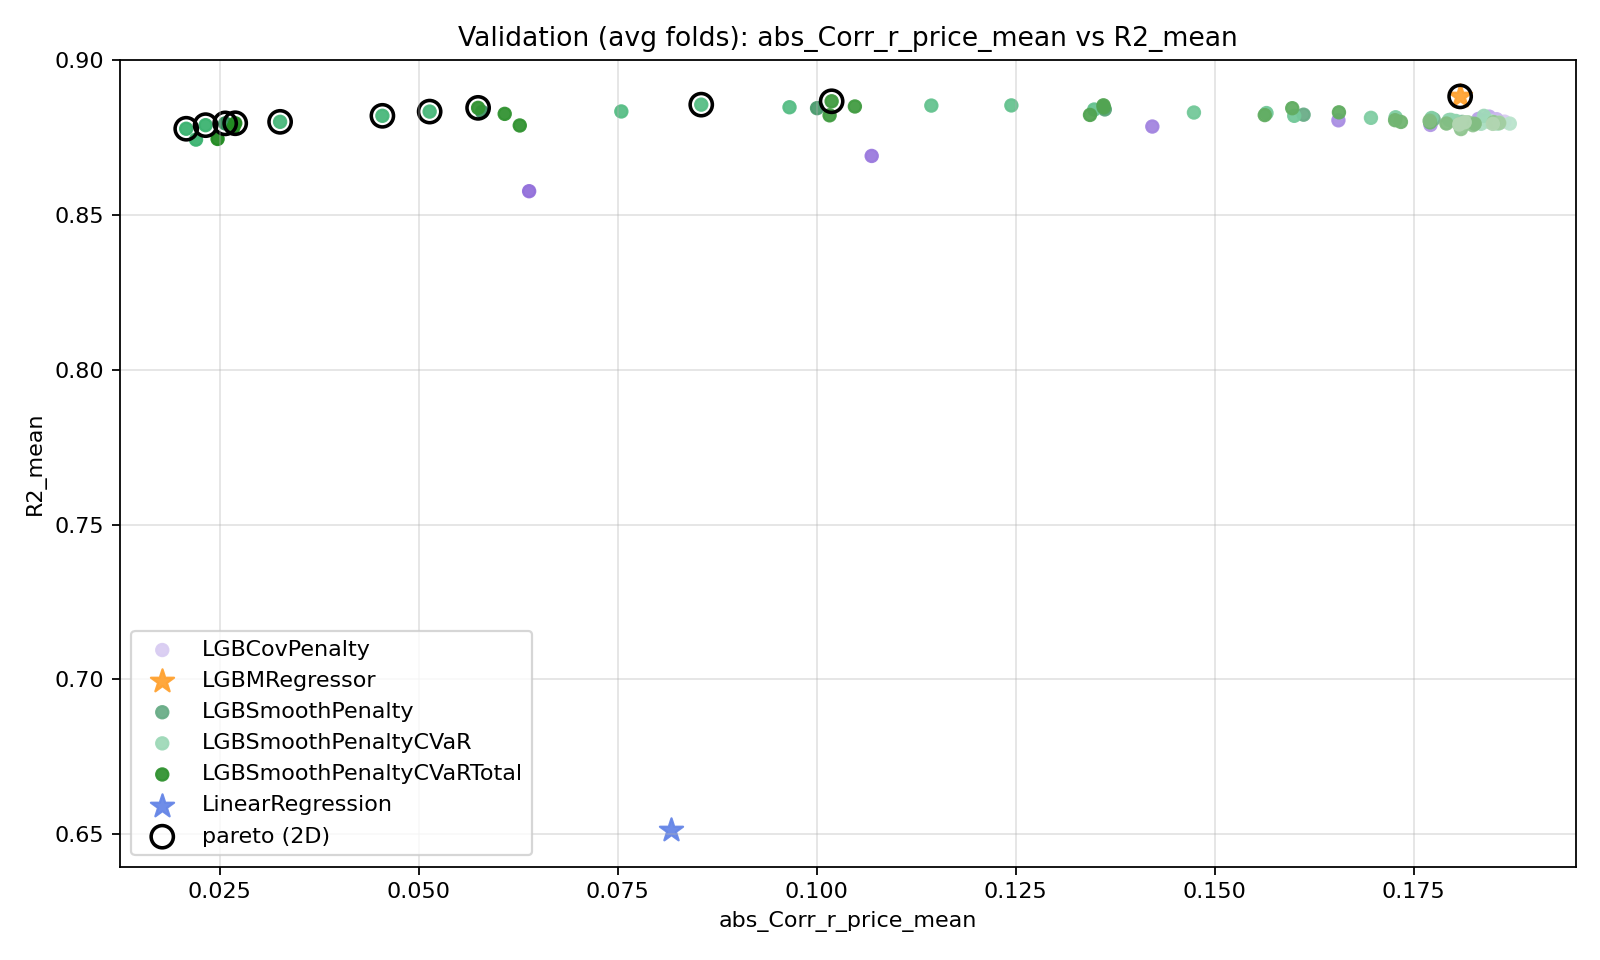
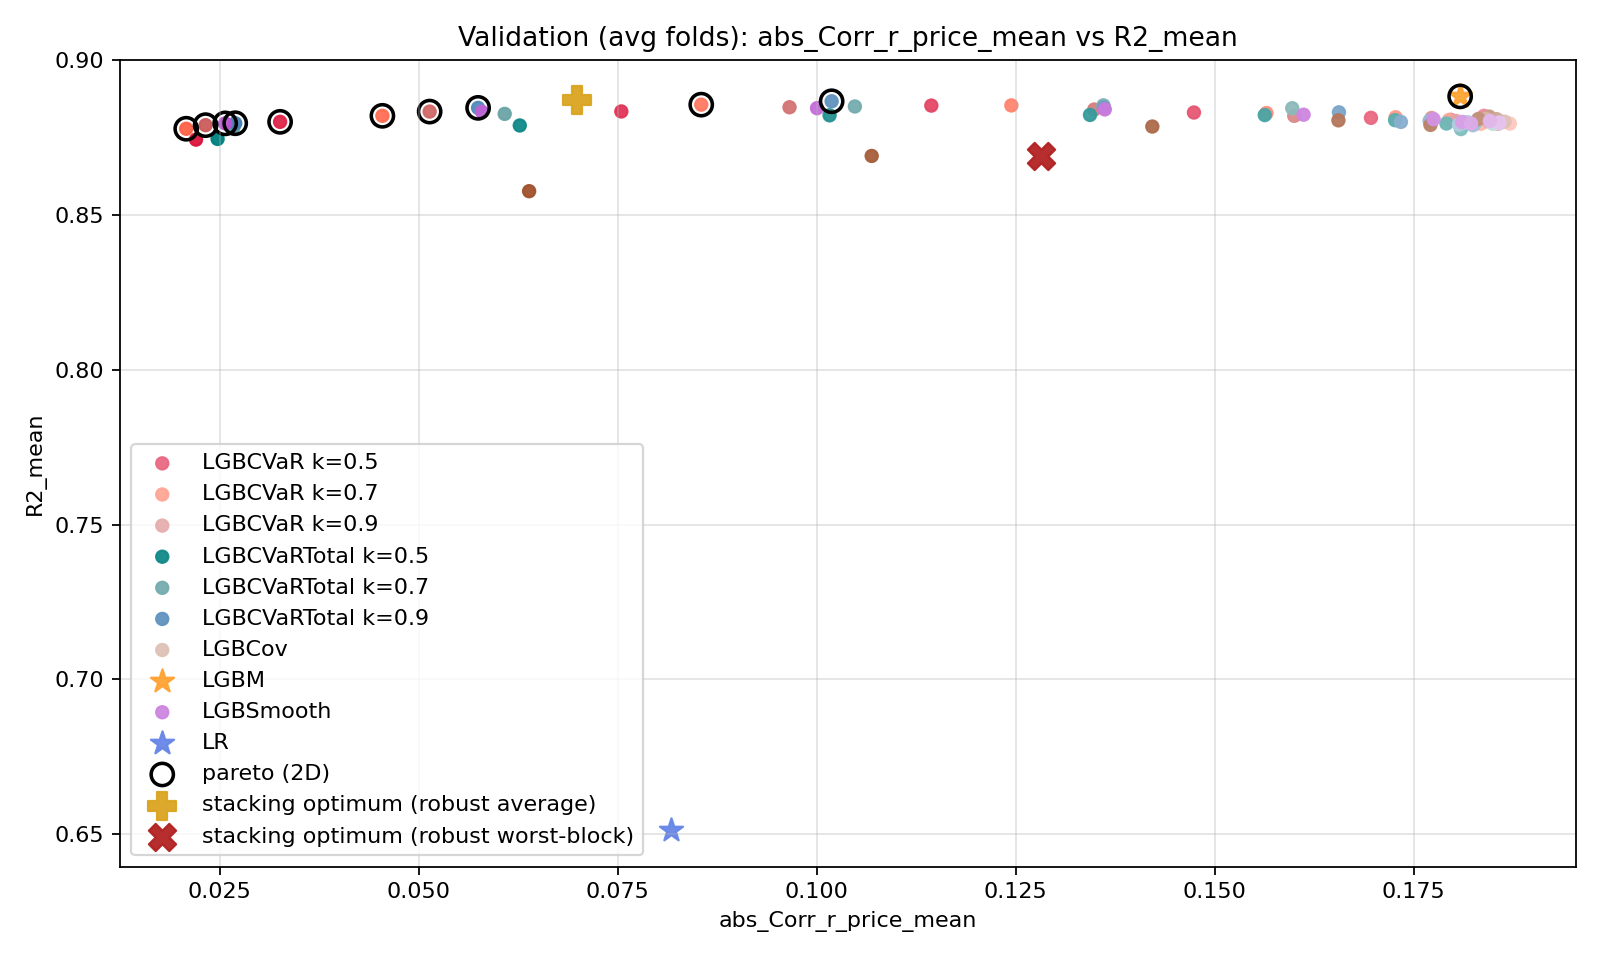
[Update] Cleaner stacking optimization

diff --git a/optimize_stacking_weights.py b/optimize_stacking_weights.py
@@ -220,6 +220,8 @@ def _solve_prd_socp_for_mode(
     cvar_alpha: float,
     prd_constraint_aggregation: str,
     prd_constraint_cvar_alpha: float,
+    prd_feasibility_mode: str,
+    prd_gap_penalty: float,
     use_bootstrap_scenarios: bool,
     n_bootstrap_scenarios: int,
     bootstrap_seed: int,
@@ -243,6 +245,12 @@ def _solve_prd_socp_for_mode(
     prd_constraint_aggregation = str(prd_constraint_aggregation)
     if prd_constraint_aggregation not in {"worst", "average", "cvar"}:
         raise ValueError("prd_constraint_aggregation must be one of: worst, average, cvar")
+    prd_feasibility_mode = str(prd_feasibility_mode)
+    if prd_feasibility_mode not in {"priced_gap", "hard"}:
+        raise ValueError("prd_feasibility_mode must be one of: priced_gap, hard")
+    prd_gap_penalty = float(prd_gap_penalty)
+    if prd_feasibility_mode == "priced_gap" and prd_gap_penalty < 0.0:
+        raise ValueError("prd_gap_penalty must be >= 0.")
     prd_cvar_alpha = float(prd_constraint_cvar_alpha)
     if prd_constraint_aggregation == "cvar" and not (0.0 < prd_cvar_alpha < 1.0):
         raise ValueError("prd_constraint_cvar_alpha must be in (0, 1) when prd_constraint_aggregation=cvar")
@@ -270,7 +278,9 @@ def _solve_prd_socp_for_mode(
         prd_high_affine_terms.append(high_aff)
         denom_constraints += [(b @ w) >= 1e-9]
 
-        loss_f = cp.sum_squares(Pn @ w - y_norm) / float(y_norm.shape[0])
+        # Scale-stable objective: mean squared ratio residual, ((yhat / y) - 1)^2.
+        # With y treated as fixed positive data, this remains a convex quadratic in w.
+        loss_f = cp.sum_squares(cp.multiply(1.0 / y_norm, Pn @ w) - 1.0) / float(y_norm.shape[0])
         scenario_losses.append(loss_f)
 
         if use_bootstrap_scenarios and int(n_bootstrap_scenarios) > 0:
@@ -288,39 +298,62 @@ def _solve_prd_socp_for_mode(
                 prd_low_affine_terms.append(low_aff_b)
                 prd_high_affine_terms.append(high_aff_b)
                 denom_constraints += [(bb @ w) >= 1e-9]
-                scenario_losses.append(cp.sum_squares(Pb @ w - yb_pos) / float(yb_pos.shape[0]))
+                scenario_losses.append(
+                    cp.sum_squares(cp.multiply(1.0 / yb_pos, Pb @ w) - 1.0) / float(yb_pos.shape[0])
+                )
+
+    gap_var = cp.Variable(nonneg=True) if prd_feasibility_mode == "priced_gap" else None
 
     if prd_constraint_aggregation == "worst":
         for low_aff, high_aff in zip(prd_low_affine_terms, prd_high_affine_terms):
-            prd_constraints.append(low_aff <= 0.0)
-            prd_constraints.append(high_aff <= 0.0)
+            if gap_var is None:
+                prd_constraints.append(low_aff <= 0.0)
+                prd_constraints.append(high_aff <= 0.0)
+            else:
+                prd_constraints.append(low_aff <= gap_var)
+                prd_constraints.append(high_aff <= gap_var)
     elif prd_constraint_aggregation == "average":
-        prd_constraints.append(cp.sum(cp.hstack(prd_low_affine_terms)) / float(len(prd_low_affine_terms)) <= 0.0)
-        prd_constraints.append(cp.sum(cp.hstack(prd_high_affine_terms)) / float(len(prd_high_affine_terms)) <= 0.0)
+        if gap_var is None:
+            prd_constraints.append(cp.sum(cp.hstack(prd_low_affine_terms)) / float(len(prd_low_affine_terms)) <= 0.0)
+            prd_constraints.append(cp.sum(cp.hstack(prd_high_affine_terms)) / float(len(prd_high_affine_terms)) <= 0.0)
+        else:
+            prd_constraints.append(cp.sum(cp.hstack(prd_low_affine_terms)) / float(len(prd_low_affine_terms)) <= gap_var)
+            prd_constraints.append(cp.sum(cp.hstack(prd_high_affine_terms)) / float(len(prd_high_affine_terms)) <= gap_var)
     else:  # cvar
         eta_low = cp.Variable()
         u_low = cp.Variable(len(prd_low_affine_terms), nonneg=True)
         for i, low_aff in enumerate(prd_low_affine_terms):
             prd_constraints.append(u_low[i] >= low_aff - eta_low)
-        prd_constraints.append(
-            eta_low + (1.0 / ((1.0 - prd_cvar_alpha) * float(len(prd_low_affine_terms)))) * cp.sum(u_low) <= 0.0
-        )
+        if gap_var is None:
+            prd_constraints.append(
+                eta_low + (1.0 / ((1.0 - prd_cvar_alpha) * float(len(prd_low_affine_terms)))) * cp.sum(u_low) <= 0.0
+            )
+        else:
+            prd_constraints.append(
+                eta_low + (1.0 / ((1.0 - prd_cvar_alpha) * float(len(prd_low_affine_terms)))) * cp.sum(u_low) <= gap_var
+            )
 
         eta_high = cp.Variable()
         u_high = cp.Variable(len(prd_high_affine_terms), nonneg=True)
         for i, high_aff in enumerate(prd_high_affine_terms):
             prd_constraints.append(u_high[i] >= high_aff - eta_high)
-        prd_constraints.append(
-            eta_high + (1.0 / ((1.0 - prd_cvar_alpha) * float(len(prd_high_affine_terms)))) * cp.sum(u_high) <= 0.0
-        )
+        if gap_var is None:
+            prd_constraints.append(
+                eta_high + (1.0 / ((1.0 - prd_cvar_alpha) * float(len(prd_high_affine_terms)))) * cp.sum(u_high) <= 0.0
+            )
+        else:
+            prd_constraints.append(
+                eta_high + (1.0 / ((1.0 - prd_cvar_alpha) * float(len(prd_high_affine_terms)))) * cp.sum(u_high) <= gap_var
+            )
 
+    objective_expr = None
     if mode == "average":
-        objective = cp.Minimize(cp.sum(cp.hstack(scenario_losses)) / float(len(scenario_losses)))
+        objective_expr = cp.sum(cp.hstack(scenario_losses)) / float(len(scenario_losses))
     elif mode == "worst":
         t = cp.Variable()
         for lf in scenario_losses:
             objective_link_constraints.append(lf <= t)
-        objective = cp.Minimize(t)
+        objective_expr = t
     elif mode == "time_decay":
         gamma = float(time_decay_gamma)
         if not (0.0 < gamma <= 1.0):
@@ -337,7 +370,7 @@ def _solve_prd_socp_for_mode(
             for _ in range(rep):
                 weighted_terms.append(float(fold_weights[i]) * scenario_losses[idx] / float(rep))
                 idx += 1
-        objective = cp.Minimize(cp.sum(cp.hstack(weighted_terms)))
+        objective_expr = cp.sum(cp.hstack(weighted_terms))
     else:  # cvar
         alpha = float(cvar_alpha)
         if not (0.0 < alpha < 1.0):
@@ -346,7 +379,11 @@ def _solve_prd_socp_for_mode(
         u = cp.Variable(len(scenario_losses), nonneg=True)
         for i, lf in enumerate(scenario_losses):
             objective_link_constraints.append(u[i] >= lf - eta)
-        objective = cp.Minimize(eta + (1.0 / ((1.0 - alpha) * float(len(scenario_losses)))) * cp.sum(u))
+        objective_expr = eta + (1.0 / ((1.0 - alpha) * float(len(scenario_losses)))) * cp.sum(u)
+
+    if gap_var is not None:
+        objective_expr = objective_expr + float(prd_gap_penalty) * gap_var
+    objective = cp.Minimize(objective_expr)
 
     hard_constraints = simplex_constraints + denom_constraints + objective_link_constraints + prd_constraints
     prob = cp.Problem(objective, hard_constraints)
@@ -388,7 +425,7 @@ def _solve_prd_socp_for_mode(
         # Final fallback: drop PRD constraints and solve simplex-only objective.
         # Runtime evidence showed some splits are infeasible under hard PRD bounds.
         fallback_constraints = simplex_constraints + objective_link_constraints
-        fallback_prob = cp.Problem(cp.Minimize(objective.args[0]), fallback_constraints)
+        fallback_prob = cp.Problem(cp.Minimize(objective_expr), fallback_constraints)
         for candidate in solvers_to_try:
             print(f"[stacking][{mode}] trying solver={candidate} (unconstrained fallback)")
             try:
@@ -441,6 +478,9 @@ def _solve_prd_socp_for_mode(
         "solver": solver_name,
         "objective_mode": mode,
         "prd_constraint_mode": str(prd_constraint_mode),
+        "prd_feasibility_mode": str(prd_feasibility_mode),
+        "prd_gap_penalty": float(prd_gap_penalty),
+        "prd_gap_value": (float(gap_var.value) if (gap_var is not None and gap_var.value is not None) else 0.0),
         "prd_constraint_aggregation": str(prd_constraint_aggregation),
         "prd_constraint_cvar_alpha": float(prd_cvar_alpha),
         "objective_value": float(prob.value) if prob.value is not None else None,
@@ -459,7 +499,7 @@ def run_stacking_pf_optimization(
     objective_mode: str = "worst_fold",
     max_models: Optional[int] = 100,
     solver: Optional[str] = None,
-    solver_verbose: bool = False,
+    solver_verbose: bool = True,
 ) -> Dict[str, str]:
     """
     Solve:
@@ -584,7 +624,7 @@ def run_stacking_prd_socp_optimization(
     objective_mode: str = "average",
     max_models: Optional[int] = 100,
     solver: Optional[str] = None,
-    solver_verbose: bool = False,
+    solver_verbose: bool = True,
     prd_constraint_aggregation: str = "worst",
     prd_constraint_cvar_alpha: float = 0.8,
     use_bootstrap_scenarios: bool = False,
@@ -592,11 +632,14 @@ def run_stacking_prd_socp_optimization(
     bootstrap_seed: int = 2025,
     time_decay_gamma: float = 0.9,
     cvar_alpha: float = 0.8,
+    solve_all_modes: bool = False,
+    prd_feasibility_mode: str = "priced_gap",
+    prd_gap_penalty: float = 1000.0,
 ) -> Dict[str, str]:
     """
     PRD-constrained exact convex stacking using row-level fold predictions.
-    Always solves and stores both `average` and `worst` objectives, plus the
-    requested objective_mode if different.
+    By default, solves only the requested objective_mode.
+    Set solve_all_modes=True to also solve and store `average` and `worst`.
     """
     objective_mode = str(objective_mode)
     if objective_mode not in {"average", "worst", "time_decay", "cvar"}:
@@ -610,10 +653,13 @@ def run_stacking_prd_socp_optimization(
         max_models=max_models,
     )
 
-    modes_to_run: List[str] = []
-    for m in ["average", "worst", objective_mode]:
-        if m not in modes_to_run:
-            modes_to_run.append(m)
+    if bool(solve_all_modes):
+        modes_to_run: List[str] = []
+        for m in ["average", "worst", objective_mode]:
+            if m not in modes_to_run:
+                modes_to_run.append(m)
+    else:
+        modes_to_run = [objective_mode]
 
     out_dir = Path(result_root) / "analysis" / f"data_id={data_id}" / f"split_id={split_id}" / "stacking_prd_socp_opt"
     out_dir.mkdir(parents=True, exist_ok=True)
@@ -631,6 +677,8 @@ def run_stacking_prd_socp_optimization(
             cvar_alpha=cvar_alpha,
             prd_constraint_aggregation=prd_constraint_aggregation,
             prd_constraint_cvar_alpha=prd_constraint_cvar_alpha,
+            prd_feasibility_mode=prd_feasibility_mode,
+            prd_gap_penalty=prd_gap_penalty,
             use_bootstrap_scenarios=bool(use_bootstrap_scenarios),
             n_bootstrap_scenarios=int(n_bootstrap_scenarios),
             bootstrap_seed=int(bootstrap_seed),
@@ -700,6 +748,9 @@ def run_stacking_prd_socp_optimization(
                 "cvar_alpha": float(cvar_alpha),
                 "prd_constraint_aggregation": str(prd_constraint_aggregation),
                 "prd_constraint_cvar_alpha": float(prd_constraint_cvar_alpha),
+                "solve_all_modes": bool(solve_all_modes),
+                "prd_feasibility_mode": str(prd_feasibility_mode),
+                "prd_gap_penalty": float(prd_gap_penalty),
                 "modes": all_summaries,
             },
             indent=2,
@@ -723,6 +774,21 @@ def _build_arg_parser() -> argparse.ArgumentParser:
     p.add_argument("--split-id", type=str, required=True)
     p.add_argument("--stacking-method", type=str, default="prd_socp", choices=["prd_socp", "legacy_linear"])
     p.add_argument("--objective-mode", type=str, default="average", choices=["average", "worst", "time_decay", "cvar"])
+    p.add_argument(
+        "--only-requested-objective",
+        dest="only_requested_objective",
+        action="store_true",
+        default=True,
+        help=(
+            "Run only --objective-mode for PRD-SOCP (default behavior)."
+        ),
+    )
+    p.add_argument(
+        "--all-objectives",
+        dest="only_requested_objective",
+        action="store_false",
+        help="Run average, worst, and requested objective for PRD-SOCP (legacy behavior).",
+    )
     p.add_argument("--use-bootstrap-scenarios", action="store_true", help="Augment fold scenarios with row-bootstrap scenarios (PRD-SOCP method only).")
     p.add_argument("--n-bootstrap-scenarios", type=int, default=0)
     p.add_argument("--bootstrap-seed", type=int, default=2025)
@@ -741,11 +807,29 @@ def _build_arg_parser() -> argparse.ArgumentParser:
         default=0.8,
         help="CVaR alpha in (0,1) when --prd-constraint-aggregation=cvar.",
     )
+    p.add_argument(
+        "--prd-feasibility-mode",
+        type=str,
+        default="priced_gap",
+        choices=["priced_gap", "hard"],
+        help=(
+            "PRD feasibility handling for PRD-SOCP. "
+            "'priced_gap' minimizes objective + xi*gap with softened PRD constraints; "
+            "'hard' enforces hard PRD constraints."
+        ),
+    )
+    p.add_argument(
+        "--prd-gap-penalty",
+        type=float,
+        default=1000.0,
+        help="Penalty xi for PRD gap when --prd-feasibility-mode=priced_gap (>=0).",
+    )
     p.add_argument("--accuracy-metric", type=str, default="OOS R2", help="Metric column name to maximize (e.g., 'OOS R2' or 'R2').")
     p.add_argument("--legacy-objective-mode", type=str, default="worst_fold", choices=["worst_fold", "mean_fold"])
     p.add_argument("--max-models", type=int, default=100, help="Optional pruning: keep top-K models by mean accuracy.")
     p.add_argument("--solver", type=str, default=None, help="Preferred solver (e.g. MOSEK, ECOS, SCS).")
-    p.add_argument("--solver-verbose", action="store_true")
+    p.add_argument("--solver-verbose", dest="solver_verbose", action="store_true", default=True)
+    p.add_argument("--no-solver-verbose", dest="solver_verbose", action="store_false")
     return p
 
 
@@ -778,6 +862,9 @@ if __name__ == "__main__":
             bootstrap_seed=int(args.bootstrap_seed),
             time_decay_gamma=float(args.time_decay_gamma),
             cvar_alpha=float(args.cvar_alpha),
+            solve_all_modes=not bool(args.only_requested_objective),
+            prd_feasibility_mode=str(args.prd_feasibility_mode),
+            prd_gap_penalty=float(args.prd_gap_penalty),
         )
     print("=" * 90)
     print("STACKING WEIGHTS OPTIMIZATION COMPLETED")
